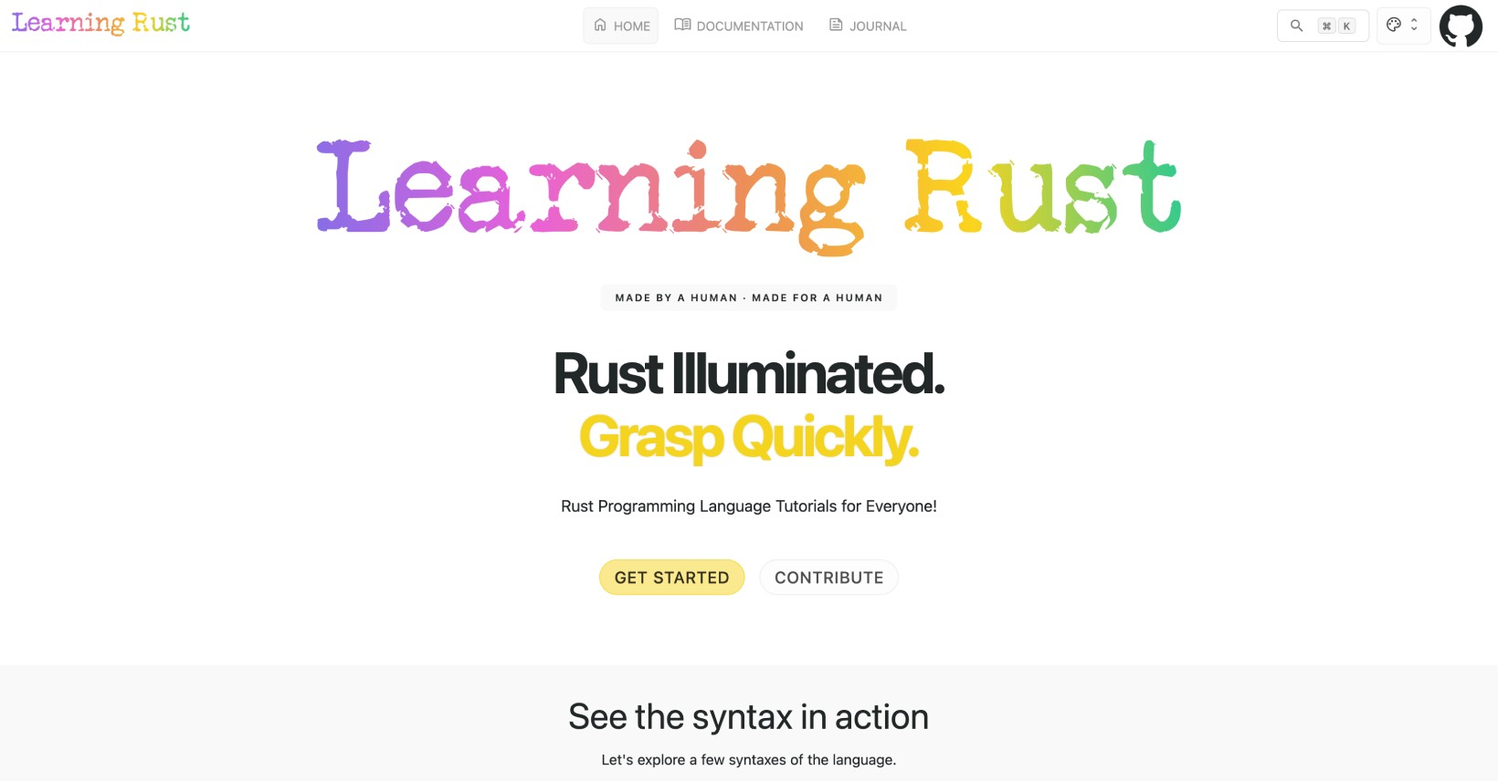
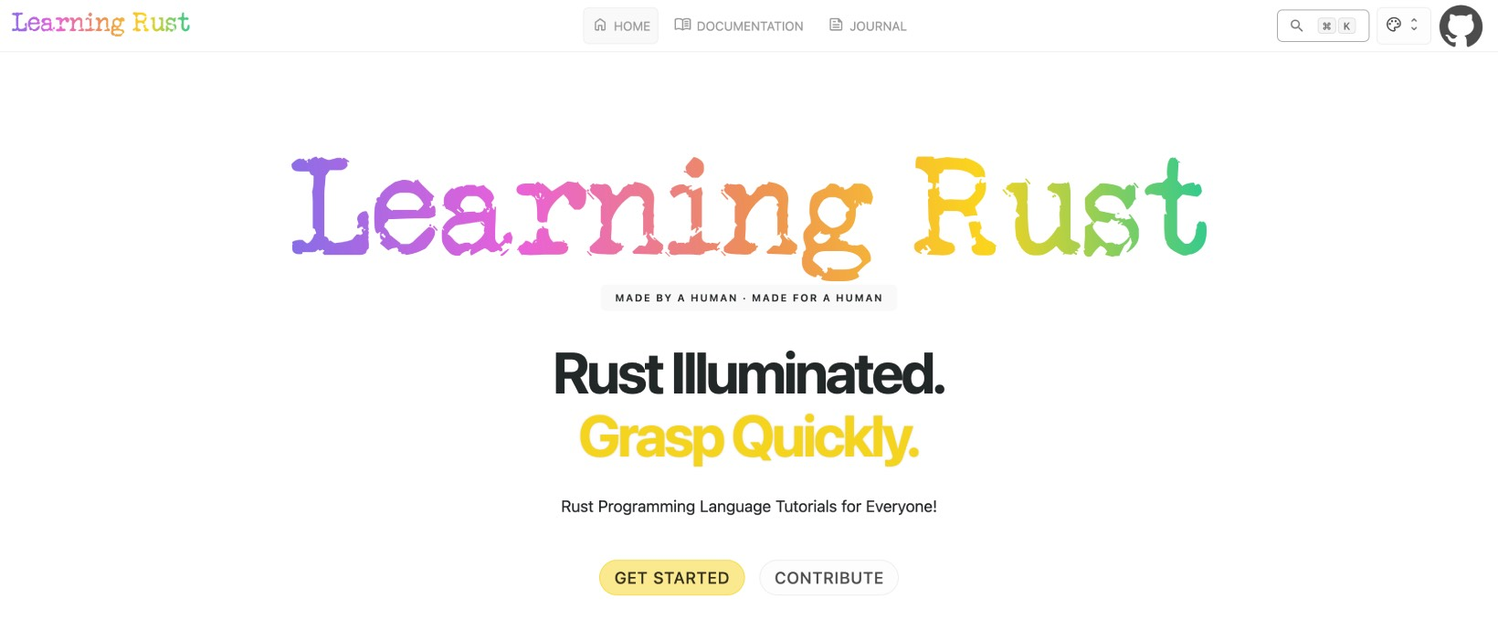
Adding The Journal

diff --git a/docs/index.html b/docs/index.html
@@ -7,7 +7,7 @@
 </a><a href=https://learning-rust.github.io/docs/><span><svg height="20" viewBox="0 -960 960 960" width="20"><path d="M256-288q49.42.0 96.21 11Q399-266 444-246v-454q-43-23-89.53-33.5-46.52-10.5-94.06-10.5-36.41.0-72.41 6t-68 21.98V-264q32-14 66.5-19t69.5-5zm260 42q45-20 91.79-31T704-288q35 0 69.5 5t66.5 19v-452q-35-13-72.49-20.5T692-744q-46 0-90 11.5T516-7e2v454zm-59.5 89q-10.5-6-21.72-12-39.78-23-83.76-35-43.99-12-90.02-12-32 0-64.5 4T134-195q-31 14-58.5 3.5T48-229v-503q0-14 8-25.5T76-776q42-24 88.38-32t94.62-8q58 0 110.5 12T480-762q58-30 110.5-42T701-816q44.47.0 87.24 7.5Q831-801 870-783q17 8 30 20.5t13 30.5v503q0 24-23.5 35t-50.5 1q-35-13-71.5-18t-73.5-5q-44.66.0-87.33 11.5T526-169q-11 7-22 12.5t-24 5.5-23.5-6zM282-491zm282-132q0-14 8.5-25t22.5-14q25-5 49.25-8 24.26-3 51.02-3 16.73.0 34.55 1.67 17.82 1.66 35.18 4.33 12 2 19.5 11.54T792-634q0 17-12 28t-29 8.71q-14-1.71-27.8-3.21t-28.05-1.5q-23.15.0-44.65 2.5t-43.38 8.37Q590-586 577-596t-13-27zm2 235q0-14 8.5-25t22.5-14q25-5 49.25-8 24.26-3 51.02-3 16.73.0 34.55 1.67 17.82 1.66 35.18 4.33 12 2 19.5 11.54T794-399q0 17-12 28t-29 8.71q-14-1.71-27.8-3.21t-28.05-1.5q-23.15.0-44.65 2.5t-43.38 8.37Q592-351 579-361t-13-27zm0-117q0-14 8.5-25t22.5-14q25-5 49.25-8 24.26-3 51.02-3 16.73.0 34.55 1.67 17.82 1.66 35.18 4.33 12 2 19.5 11.54T794-516q0 17-12 28t-29 8.71q-14-1.71-27.8-3.21t-28.05-1.5q-23.15.0-44.65 2.5t-43.38 8.37Q592-468 579-478t-13-27z"/></svg>
 </span>Documentation
 </a><a href=https://learning-rust.github.io/journal/><span><svg height="20" viewBox="0 -960 960 960" width="20"><path d="M216-144q-29.7.0-50.85-21.15T144-216v-528q0-29.7 21.15-50.85T216-816h378q14.22.0 27.11 5t23.64 15.75l150.5 150.5Q806-634 811-621.11t5 27.11v378q0 29.7-21.15 50.85T744-144H216zm0-72h528v-360H612q-15.3.0-25.65-10.35T576-612v-132H216v528zm420-72q15.3.0 25.65-10.29Q672-308.58 672-323.79t-10.35-25.71Q651.3-360 636-360H324q-15.3.0-25.65 10.29Q288-339.42 288-324.21t10.35 25.71Q308.7-288 324-288h312zM443.73-588q15.27.0 25.77-10.29t10.5-25.5-10.33-25.71-25.6-10.5h-107.8q-15.27.0-25.77 10.29t-10.5 25.5 10.33 25.71 25.6 10.5h107.8zM636-420q15.3.0 25.65-10.29Q672-440.58 672-455.79t-10.35-25.71Q651.3-492 636-492H324q-15.3.0-25.65 10.29Q288-471.42 288-456.21t10.35 25.71Q308.7-420 324-420h312zM216-744v156-156 528-528z"/></svg>
-</span>Journal</a></nav></header><main><section class=hero-section><div class=hero-header><h1 class=hero-svg aria-label="Learning Rust"><svg version="1.2" width="1280" height="260" viewBox="0 0 1280 260"><defs><linearGradient id="P" gradientUnits="userSpaceOnUse"/><linearGradient id="g1" x2="1" href="#P" gradientTransform="matrix(1197.64,-163.2,38.718,284.128,41,226.082)"><stop stop-color="#866ee7"/><stop offset=".25" stop-color="#ea60da"/><stop offset=".5" stop-color="#ed8f57"/><stop offset=".75" stop-color="#fbd41d"/><stop offset="1" stop-color="#2cca91"/></linearGradient></defs><style>.a{fill:url(#g1)}</style><path class="a" d="m73.2 63 2.6 2.6 4.6-1.7q6.5 3.6 9.8 3.6l10.7-2.7h5.3v1.7l2.7-1.7h1l6.4 4.3v1.8l-1-.8h-1.9l1 4.5q-3.1 6.2-9.8 6.2H91.1L85.7 88l-1.8 21.5v58.1q4.8.0 6.3 6.4l.9-.9h1l5.3 3.5q24.1-3.2 24.1-6.3l4.6-5.4h3.5l.8 1 3.7-1.8-1.8-5.3 2.6-1-.8-2.7h-2.7l-2.6 1.8h-1.9v-.9q.2-4.4 1.9-4.4l-1.9-6.3q0-7.3 8.9-10.7v.8l.9-.8h1.9q1.3.0 3.5 7.1l-.9 3.6.9 3.6-.9 5.3.9 4.6-.9.8v1l.9.9v.8l-.9 4.4.9 2.7-.9.9.9 6.3v6.4q-3.5 2.9-3.5 6.1-3.5 2.7-8.2 2.7H83.9l-2.6-2.7q1.2.0 2.6-3.5h-1.8v-.9l-4.4 1.7-1.9-1.7-4.4 3.6-.9-1-.8 1H55.3q0 2.6-1.8 2.6h-1.9q-9.8.0-9.8-7.9v-4.6l1-1-1-.8v-.9q0-2.4 9-3.5h4.5l5.4 4.4h1.7q6-3.8 8.1-11.7l2.7-.8v-.9l-1.8-5.4q-2.7.0-2.7-1.8v-34.8l-.8-12.7q1.8-4.4 1.8-16v-4.5q-3.8.0-5.5-5.4H52.6q-11.6.0-11.6-8v-1.8q6.6-7.2 11.6-7.2l.9.9h.9l2.8-.9q0 2.7 3.5 2.7l.8 2.6h.9v-.8l-.9-2.6 2.7-1.9 1.8 1.9q0-2.1 7.2-4.5zm64.4 94.8h-1.8v2.8l1.8-1.8zm66.8-63.2 1.7-2q.2 2.7 21.6 22.5v.8q-2 0-2 4.7l-2.7 1 1 4.7q0 1.9-2.9 1.9v.8l1.9 2q0-2.2 3.8-3.8 2.7.6 2.7 7.6v1.8l-.8.9.8.9v.9q0 2.8-9.3 4.7h-17.7l-34.7 1q0 2.5-4.6 5.6l-.9 3.8v.9q5.2 4.3 7.4 10.3l14.2 11.2-1.1.8h10.3q4.3.0 10.2-6.4l16.9-15.9q8.5.0 8.5 7.4t-12.3 20.7q-13.2 7.4-26.2 8.4l-.8-1v-.9l-.9.9h-3l-1.6-1.9.8-.8q-4.6.0-4.6-2l.8-.9-1.8-2.9q-7.3.0-11.3 3.8l-11.2-9.3 3.7-4.7q-3.7.0-3.7-6.5h.9l-.9-1.1v-.8l.9-1v-.9h-.9l-2.8 1.9q-4.6.0-4.6-18.7.0-22.4 3.6-22.4l-.8-2.9q0-3.8 4.6-3.8.0-7.4 19.7-19.6l10.3-2.8q10.6.0 14 3.8l2.7-3.8zm-39.3 31.7q.3 3.3 7.6 7.6l.8-1h30.9l1 1q5.5-3.6 8.3-8.5-7.5-14.9-20.5-14.9h-8.4q-12.1.0-19.7 15.8zm57.1 25.4h.9l.9.8v1l-.9.9h-.9l-.9-.9v-1zm4.6 2h.9l4.7 5.6-1 .9h-.8l-4.8-5.5zm-65.4 10.1-2.9 1v1l3.8 3.7h1l.8-2.7q-2.7.0-2.7-3zm104.1-61.1 4.4-2.6h10.6l3.3 2.6 8.9-2.6q.1 1.7 8.7 7.8 4.4 5.9 4.4 8.7v1.8l-3.5 5.2 1.7 2.6-1 3.5q1.9.0 1.9 2.6h1.7v-3.5h1.9l-1 30.6v10.4q0 4.9 5.2 8l6.2-6.1-1-3.5q4.5-6.2 9.7-6.2l2.7 7-1.9 8.8-3.4-1.8-.8.9h-1l-2.6-.9q-2.5 4.4-5.3 4.4v1.7l1.8 1.8-.8 3.5-1-.8-.8.8h-.8l-1.9-1.8-6 2.6h-4.4q-5.4-5.2-7.9-5.2l-17.5 9.6-1.6-3.4 1.6-5.3q-3.5.8-3.5 3.5l-.8-.8q-6.5 1-10.4 6h-5.4q-8.8.0-16.6-14.8-1.7-3.5-1.7-9.6v-8.8l1.7-1.7v1.7h1.8l-2.6-3.5q8.2-12.9 17.4-15.7-2.5-5.1-13-8.7l-1.8-4.4-.9.8h-.9l-.8-.8v-.9h1.7V120q0-8 10.5-15.6h.9l2.6 1.7q0-2.2 8.7-4.3h1.8zM262 128v.8l5.2 5.2-1.7 1.8h.8l14.1-.8 2.6 1.6q9.5.0 9.5-6h1l.8.8h.8l1-.8v-1.8q-1.8.0-1.8-4.3-6.9-9.7-12.3-9.7h-11.3q-8.7 5.8-8.7 13.2zm38.3 2.6h-1.6l.9.8v1.8h-2.7v2.6h1.8l1.6-3.4zm-36.6 6-5.3-5.3-.8.9v1q3.9 3.4 6.1 3.4zm-18.4 28.8h1q1.6.0 8.7 8.7l5.2 3.6h.9l7-1.8h5.2l2.6 1.8h1.9q12.8-7 15.7-15.9l-1-.7v-.9l1-5.2v-.9q-2.9.0-5.3-4.4v-.8h.9l4.4 3.4v-.8q-1-3-3.6-3.6l-34.1 5.2q-10.5 8.4-10.5 12.3zm80.4 18.3v.9q-7 8.7-10.4 8.7l-1-.8v-.8q9.6-8 11.4-8zm76.5-88.1h.9l10.8 1.7 1.8-1.7q0 2.7 11.7 12.6v.8h-1.8l.9.9v6.4q0 11.8-8.1 16.2h-7.2l-7.2-7.2-.9.9v-.9l.9-1v-.8q0-4.1-6.5-9.9v-.9h-.8q-20.8 16.1-20.8 31.6l-.9 5.3-1-.8h-.8l-3.6.8q-7.2.0-7.2-6.3v-5.4q0-22.5-6.3-22.5.0-1.8-2.8-1.8l-2.6.8q-15.4.0-15.4-8 0-7 11.7-8.1h10.9l.9.9h.8l2.8-2.8h1.7l3.7 2.8.9-.9v-1l12.5 10.9h1zm-35.3 15.3h-1.8l.9 5.3h.9l.9-4.5zm-5.4 3.7h-1.7v.8q1.8 3.7 4.4 3.7h.9v-1q-3.6.0-3.6-3.5zm10 .8-1.8 1.9v1.8l1.8-1.8zm-2.8 40.6v-1.8h1.9q0 3.1 6.3 3.6.0 11.4 6.2 16.4v.8l4.6-.8h7.2l.9.8h.9v-.8l-.9-1v-.8h.9l1.9 1.8-1 .8v.8q4.6.4 4.6 2.8l-1 .9v.9h2v.9q0 10-12.8 10h-20.7l-16.2.9-9.9-.9-1 .9q-4.6-5-4.6-7.3l-.9.9h-.8v-.9l3.6-6.3v.9q3.9-.9 7.2-6.3 4 0 8.2 3.5h.8q1.6-5.3 5.4-5.3v-3.6q0-10.9 6.4-10.9h1.8zm-7.2 17.3-2.7 2.5 2.7-.9zm128-77.1q26 2.9 26 22.4l-.8 16.1v1.8l.8 3.7-.8 3.5v7.2l.8 3.5-.8 3.7v8h-1.9l-.9-2.7-2.7.9v.9q3.4 5.9 7.1 7.3h1v-1q-2.6.0-2.6-1.9v-.8h.8l11.7 9.9v5.3l-2.7 3.6 1.8 1.9-1 .8h-1.8l-.8-.8h-.9l-1.8 1.7h-4.5l-27-.9-1.6-2.7 8.8-7.9h3.7l4.4.7q3.6-4.7 3.6-7.9l-2.6-4.6 1.6-3.6-.8-2.6-1.8 1.7h1.8q0 1.8-5.3 2.7l.8-.9v-22.4l-.8-5.4 2.7-8.1-2.7-2.6v-.9q0-1.8 2.7-1.8-3.9-9.1-9.1-9.1H485q-18.2 11.9-25.2 31.4v11.8l-.8 13.4 7.2 5.3 1.8-1.7v1.7h.9l2.6-.8 1.8 4.4.8-.7h1l.9.7v.9q-2.2.0-2.7 4.6-2.4.0-8 5.3l-1-.9-.9.9h-3.6q-28.6.0-28.6-5.3v-4.6l13.4-12.5q0-15.2 4.5-15.2l-3.5-4.6v-20.6l1.7-2.6q-1.7-6.2-13.4-14.4l-2.7-4.4v-.9l1.7-2.7-1.7-1.9 4.6-3.6 2.6 1.8.8-.8h.9l7.2.8 2.8-.8q8.9.0 10.7 12.5l4.5 2.7h.9q3-1.2 8.9-10.7 5.7-2.4 6.3-4.5l4.5.8h1q1.3.0 2.6-3.5zm-61 9.9h.8l.9.9v.8l-.9 1h-.8l-.9-1v-.8zm0 3.5h.9l8 9-1 .8h-.7l-8.1-8.9zm-.9 78.1v-1h.9l5.4 5.4-.9 1h-1zm139.7-124h.9q12.4 3.7 12.4 12.5v4.5q0 4.7-7.2 9.8h-8.7l-7.2-6.3q-3.5.0-3.5-1.7l.8-.9h.9l1.8 1.7v-.8l-.9-5.5q0-1.8 10.7-13.3zm-13.3 35.6 4.3 2.7 6.4-1.7v1.7q-3.6.5-3.6 2.8v1.6h.9l2.7-.8.8 2.7 11.6-5.3 1.9 8-1 4.5v39.2l-1.8 1.7-3.6-1.7v.9l1.8 2.7q-3.6 2-3.6 5.2l-.8-.8h-.9l1.7-6.3h-.8l-5.3 3.6-.9-.9v-4.4l.9-2.8-.9-4.3v-29.5q0-1.8-2.7-1.8l-1-.8v-.9l1-1q-3.6.0-3.6-3.5-6.5.0-16 7.2l-1-1q-4.5-4.7-4.5-8l2.9-1.9-1-.8v-.8q6.8-5.5 16.1-5.5zm10.7 69.6 12.4-8.9.9.9v8q0 5 6.3 7.1v1l.8-1h2.7l.9 1 2.7-1 7.2 1 2.6-2.6.9.8v.8l-4.5 5.4v2.6l2.6-1.7 1.9 1.7q-2.1.0-4.5 2.7l-3.5-1.7-12.5 2.7q0 3.5-5.4 3.5v.9l-10.7-.9h-18.7l-3.6.9q-8-.5-8-3.5l.8-2.7h-.8l-1.8-1.9q0-10.6 9.8-10.6l2.6 3.6 1-1h8l.9 1h.9q0-1.8 4.5-1.8l1.7-8.2h1.9zm-34.9 19.7v-.8h.9l5.3 5.3v.9h-.8zm135.1-92.4q26.1 2.9 26.1 22.4l-.9 16.2v1.7l.9 3.7-.9 3.5v7.2l.9 3.6-.9 3.6v8h-1.7l-1-2.7-2.7 1v.9q3.3 5.8 7.2 7.1h.8v-.8q-2.6.0-2.6-1.9v-.8h.9l11.6 9.9v5.3l-2.7 3.6 1.8 1.8-.8.8H699l-.7-.8h-1l-1.7 1.8H691l-26.9-1-1.8-2.6 9-8.1h3.6l4.4.8q3.5-4.7 3.5-8l-2.6-4.5 1.7-3.5-.9-2.6-1.7 1.6h1.7q0 1.9-5.3 2.7l1-.8v-22.4l-1-5.4 2.8-8.2-2.8-2.6v-.9q0-1.8 2.8-1.8-3.9-9.1-9.1-9.1h-8.9q-18.1 12-25.2 31.4v11.8l-.8 13.5 7.1 5.3 1.9-1.7v1.7h.9l2.6-.8 1.7 4.3 1-.8h.9l.8.8v1q-2.2.0-2.7 4.6-2.3.0-7.9 5.3l-.9-1-1 1h-3.6q-28.7.0-28.7-5.3v-4.6l13.6-12.5q0-15.3 4.3-15.3L621 149v-20.6l1.8-2.6q-1.8-6.1-13.4-14.4l-2.8-4.4v-.9l1.9-2.7-1.9-1.9 4.6-3.5 2.6 1.7.8-.8h1l7.2.8 2.7-.8q9 0 10.7 12.5l4.6 2.6h.8q3.1-1.1 9-10.6 5.7-2.4 6.3-4.5l4.6.8h.8q1.3.0 2.6-3.5zm-61 9.9h.9l1 .9v.9l-1 .9h-.9l-.8-.9v-.9zm0 3.6h.8l8.1 8.9-.9 1h-.8l-8.2-9.1zm-.8 78.1v-.9h.8l5.5 5.4-1 .9h-.8zm136.1-83.1 6.3-6.4h2.7q7.5.0 10.7 5.4l1-.8h1.7q2.6.0 2.6 3.5 7.1-.9 12.5-8.1h7.3q14.8.0 17.9 17.9-1.8 9.9-3.7 9.9l-1.8-1.7-.8.8h-.9l-.9-.8h-.9l-2.7.8v-2.7l-1 .9h-.8l-.8-.9h-1v.9l1 2.7-1 1h-.8l-2.7-2.7h-.9l.9.8v1.9l-3.7 4.3v3.7q0 25.6-21.4 30.3l.9 1v.8l-2.7 3.5h1.8l1.9 2.7 2.6-.9.9.9v1l.8-1h1q4.4.7 4.4 4.6l6.3 1.7.8-.8 3.7.8 7.2-1.7q11.5 9 11.5 17.8v3.7q-9.5 6.5-16.9 15.1h-1l2.8 5.3q-6.3 6.4-23.3 6.4h-6.3q-16.6.0-20.5-2.9l1.8-3.5q-4.5.0-4.5-1.8h-2.7q0 2.8-2.7 2.8-16.9-4.9-16.9-19.7v-5.4q1.8-1.8 1.8-8 3.5-2 3.5-4.6l-3.5-12.5v-6.1q0-4.6 9.8-14.4v-3.5l-1.8-9.8v-3.7q0-17.3 7.1-22.3 5.3-3.8 13.4-6.2zm-9.8 29.5q0 12.1 17.8 22.2 13.7.0 19.7-11.5l-.9-4.5q0-6.2 4.6-6.2v-3.7q-2.5.0-10.7-11.7l-7.2-2.6h-5.5q-12.1.0-17.8 18zm50-13.5h-1.7v3.7h.8zM733 160.9l-8.9 8.1v1.7q2 4.1 6.2 6.2h2.7q7 0 13.4-8.8l-1-2.7 1-1-7.2 1-6.2-1.9v-.8l1-1v-.8zm-9.9 36.7v1.7l13.4 11.6-.9.9v.9q2.6.0 2.6 2.7h2.7l1.9-3.6-1-2.5 1-1h.9l.8 1 .9-1h.9l3.5 2.6h13.5q17.9.0 24.2-10.7-4.6-13.4-30.5-13.4h-16.1q-15.5.0-17.8 10.8zM861.1 63h19.1l1.8 1.7-.9 1h2.8l15.3-1.8 21.6 1.8.9-1h1q26 6.9 26 23.6v1.8H947l-2.6-.8-4.6.8h-4.5q-9.1-10-28.9-10h-11.8q-1.2 5.5-6.3 5.5v12.6l-4.4-.8.8.8-.8 4.5v2.7l3.5-2.7.9 1h.9l-.9.9v2.7l.9 3.6-.9 3.6 7.2 5.3 7.2-.8 17.3.8q7.7.0 16.2-12.5l-.9-3.6.9-1-.9-.9v-.8l3.5-3.6 1 .8h.9q1.2-6.3 2.7-6.3l1 .9-1 1v3.6h1.8v.8l3.5-1.7 1 .9v6.3q0 12.9-14.4 25.3l3.5 10.9-.8.8-.9-.8h-.9l-14.5 1.8q-2.7-7.4-10.8-7.4h-16.3q-1.2 5.6-6.3 5.6l.9 3.5-.9 7.2.9 7.2-.9 9.1q0 5.1 16.2 9.1 4.6 2.9 4.6 7.2v2.7q-3.2 6.4-16.3 6.4l-19.9-1v-.9q2.6-4.5 5.4-4.5l-5.4-7.2-2.7.8 3.6 4.6v1l-3.6.8-2.7-2.7-4.5 4.5 2.7.9v1.8h-1q-8.9-2.7-8.9-9v-1.9q0-5.2 14.4-9.9.0-1.8 3.6-1.8l.9.9v-10.9h1.8v1.9h1.8l-3.6-13.6-.9-27.1 1.8-1.8-1.8-2.7v-7.2q0-1.9 5.5-1.9l.9-4.4v-1.8q0-1.5-6.4-2.7v-9.1q-7.8-9.1-15.3-9.1l-1-.9v-1.8q0-12.6 3.6-12.6zm76 84.9.9 1h.8l2.9-1 2.7 9.1-2.7 2.7.8.9v.9l-.8.8v.9q10 11 15.2 11l7.3 6.3h-1.8v5.4q-1.8 6.4-9.1 6.4h-9.9q-12.6.0-12.6-10.9v-.9q5.7-2.4 6.3-4.5l-1.8-5.6.9-.8v-.9h-1.7l-2.9 1.7-4.5-18v-1.8q0-2.7 10-2.7zm64.6-56h.9l5.6 6.3-1 1.1h-.9l-5.4-6.5zm-4.7 5.4 4.7-.8q2.7 3.6 2.7 8.3v14.7l-1 2.9 1 4.6v5.4q0 41.5 7.3 41.5l3.7 2.7h4.6q10.1.0 24-22.2v1.1l2.7-1.1-.9-15.4v-2l.9-5.6-.9-3.6.9-.8h1q0-11.8-6.5-15.7l-4.6-1q0-1.4-6.4-3.6V103l6.4-5.7 4.6 1h8.2l4.6-1 1 1 1.9-1.8q2.7.0 3.5 12.9v60.7q0 2.4 10.3 5.6l2.7 3.7v1q-1.9 3.7-4.6 3.7l1.9 2.7-1 .9-.9-.9h-2.7v1.7q2.7.0 2.7 2v1h-1.8l-2.8-2-2.7 2-8.3-1-2.8 1v-1l.9-1v-1q-3 0-8.3-7.3l-.9-.8h-.9q-12.2 11.9-22.1 11.9h-6.5q-12.2.0-20.2-15.7l-.9-.9.9-.9v-.9q-3.8.0-4.5-19.5V149q0-7.3 5.4-7.3v-1.9l-4.6-5.4 1.9-9.3q0-7.7-5.6-12.9l1-.9v-1q-5.6.0-7.3-3.6-2.9.0-2.9-1.9l1.8-2.7-.9-1q2.8.0 6.6-3.8zm-25 8.4h.9l5.7 6.5-1.1 1h-.8l-5.6-6.5zm8.3 7.3h.9l1 .9v1l-1 .8h-.9l-.8-.8v-1zm59.8 2.7-1.9-2.7h1.9l1.7 1.8-.8.9zm-2.8-1.7h.9l1 .8v.9l-1 1.1h-.9l-.8-1.1v-.9zm106.2-16.8h1l5.2 6.3-.8.8h-.9l-5.3-6.1zm-41.4.8h2.6q23 2.4 23.7 7.9h3.6q0-3.6 5.3-6.1h.8l2.6 1.8.9-.9v-.9q3.6.9 3.6 5.3v9.8l.9 4.3q-2.5.0-4.5 6.2l-6.1 7.1-.9-1-.9 1q-6.6-18.6-22.9-18.6h-7q-4.8.0-11.5 8.9l.9 2.6-1.8 1.7q3.8 1.9 7.1 7.1l21.2 4.3-1 .9v2.7l1.8 1.8h1.8l4.4-.9v1.7l4.3-.8 1 .8v1l8-1.8-3.6-4.5.9-.9h.8q11.6 13.7 11.6 20.4v8.7q0 11.2-15.1 21.2l-.9-.8v-.9q3.2-1.7 7-11.5l-1.7-6.2h-.9q0 4.6-7.1 9.8l-6.9 14h-5.4l-3.5 1-9.7-2.6 2.8-4.5q-4.6-6.4-9-7.1-7 5.7-11.3 13.2l-3.6 1q-5.8.0-7.1-8.1l1-.8h.9v-1.8h-.9l.9-14.9v-13.3q0-1.6 7.8-4.4.0-2.6 1.8-2.6h.9v.9l-.9.8v.9l.9-.9h1.7v.9l-1.7 2.8v2.6q4 8.4 17.6 20.3l4.5-1h3.4l4.5 2.6.8-.9h1l.8.9h.8q6.1.0 15-11.4l-1.7-1.8.9-.8v-1q-3.1-10.5-10.6-10.5v-1.8h1.7v-1.7h-1.7l-3.6 2.6-.8-.9v-.9l2.6-2.6-2.6-.9-.8.9h-2.8l-5.1-2.7q0 2.1-4.5 5.3l-14.2-2.6-2.6 2.6h-.9q-11.5-14.2-11.5-17.5l-.7-7.9v-7.1q3.5-5.3 18.4-17.7.0-1.6 4.5-1.8zm19.4 40.5v-1.7h2.6v1.7zm72.2-74h1.7v1l.8-1h1.8q0 2.7 2.6 2.7v2.6l1-.8h.8l1.7 1.6v1l-.9-1h-1.6v1l-1 22.9 6.1 7.1q4.8-3.8 15.1-4.5l1.8 3.6 2.6-1.7h1.8q2.6.0 4.3 8.7.0 4.5-6.1 7.9l-17.6-2.7h-1.9l-6.9 7.2v43.1q0 5.7 10.5 14.1h4.5q9.8-5.6 9.8-19.4l.8-.8h.8l-.8-.9v-1l.8-.8-.8-.8v-1l3.4-4.5h2.7l.8 1 1-1h.8q4.4 2.1 4.4 9v3.4q0 25.2-21.1 30.9v-.9l-5.2 1.9h-4.5q-22-8.5-22-18.7-2.2.0-2.7-17.5v-16.8l.9-.9v-.9l.9.9h1.8l-1.8-5.2v-14.2q-3.7.0-5.3-5.3h-5.2l-7.2-1.6h-3.4l-2.7 1.6q-3.4-1.4-3.4-6.1v-1q4.9-9.6 22.8-9.6l7-6.2-.8-4.4q0-22 7.1-22z"/></svg></h1><span class=badge>Made by a human · Made for a human</span><h2>Rust Illuminated.<br><span>Grasp Quickly.</span></h2></div><div class=hero-content><p>Rust Programming Language Tutorials for Everyone!</p></div><div class=hero-controls><a href=https://learning-rust.github.io/docs class="btn btn-primary">Get Started</a>
+</span>Journal</a></nav></header><main><section class=hero-section><div class=hero-header><h1 class=hero-svg aria-label="Learning Rust"><svg version="1.2" viewBox="0 0 1280 260" width="1280" height="260"><defs><linearGradient id="g1" x2="1" gradientUnits="userSpaceOnUse" gradientTransform="matrix(1268.481,-172.853,41.006,300.923,6,259.769)"><stop offset="0" stop-color="#866ee7"/><stop offset=".25" stop-color="#ea60da"/><stop offset=".5" stop-color="#ed8f57"/><stop offset=".75" stop-color="#fbd41d"/><stop offset="1" stop-color="#2cca91"/></linearGradient></defs><style>.s0{fill:url(#g1)}</style><path class="s0" d="m40.1 87.04 2.76 2.75 4.87-1.8q6.89 3.82 10.38 3.82l11.33-2.86h5.62v1.8l2.86-1.8h1.06l6.77 4.55v1.91l-1.06-.85h-2.01l1.06 4.77q-3.28 6.56-10.38 6.56h-14.3l-5.72 7.63-1.9 22.77v61.54q5.08.0 6.67 6.78l.95-.96h1.06l5.62 3.71q25.52-3.39 25.52-6.67l4.87-5.72h3.71l.85 1.06 3.92-1.91-1.91-5.61 2.75-1.06-.84-2.86h-2.86l-2.76 1.9h-2.01v-.95q.21-4.66 2.01-4.66l-2.01-6.67q0-7.73 9.43-11.33v.84l.95-.84h2.01q1.38.0 3.71 7.52l-.95 3.81.95 3.81-.95 5.62.95 4.87-.95.84v1.06l.95.96v.84l-.95 4.66.95 2.86-.95.96.95 6.67v6.78q-3.71 3.07-3.71 6.46-3.7 2.86-8.68 2.86H51.44l-2.76-2.86q1.27.0 2.76-3.71h-1.91v-.95l-4.66 1.8-2.01-1.8-4.66 3.81-.96-1.06-.84 1.06H21.15q0 2.76-1.91 2.76h-2.01q-10.38.0-10.38-8.37v-4.87l1.06-1.06-1.06-.85v-.95q0-2.54 9.53-3.71h4.77l5.72 4.66h1.8q6.35-4.02 8.57-12.39l2.86-.85v-.95l-1.9-5.72q-2.86.0-2.86-1.91v-36.86l-.85-13.45q1.91-4.66 1.91-16.94v-4.77q-4.03.0-5.83-5.72H18.29q-12.29.0-12.29-8.47v-1.91q6.99-7.63 12.29-7.63l.95.96h.95l2.97-.96q0 2.86 3.71 2.86l.84 2.76h.96v-.85l-.96-2.75 2.86-2.02 1.91 2.02q0-2.23 7.62-4.77zm68.21 100.41h-1.9v2.96l1.9-1.9zm70.76-66.94 1.8-2.12q.21 2.86 22.87 23.83v.85q-2.11.0-2.11 4.98l-2.86 1.06 1.05 4.97q0 2.02-3.07 2.02v.84l2.02 2.12q0-2.33 4.02-4.02 2.86.63 2.86 8.05v1.9l-.85.96.85.95v.95q0 2.97-9.85 4.98h-18.75l-36.75 1.06q0 2.65-4.87 5.93l-.96 4.03v.95q5.51 4.55 7.84 10.91l15.04 11.86-1.16.85h10.91q4.55.0 10.8-6.78l17.9-16.84q9 0 9 7.84.0 7.83-13.03 21.92-13.98 7.84-27.74 8.9l-.85-1.06v-.95l-.96.95h-3.17l-1.7-2.01.85-.85q-4.87.0-4.87-2.12l.85-.95-1.91-3.07q-7.73.0-11.97 4.02l-11.86-9.85 3.92-4.98q-3.92.0-3.92-6.88h.95l-.95-1.17v-.84l.95-1.06v-.96h-.95l-2.97 2.02q-4.87.0-4.87-19.81.0-23.72 3.81-23.72l-.84-3.08q0-4.02 4.87-4.02.0-7.84 20.86-20.76l10.91-2.97q11.23.0 14.83 4.03l2.86-4.03zm-41.62 33.58q.31 3.49 8.05 8.05l.84-1.06h32.73l1.06 1.06q5.82-3.81 8.79-9-7.94-15.79-21.71-15.79h-8.9q-12.81.0-20.86 16.74zm60.47 26.9h.96l.95.85v1.06l-.95.95h-.96l-.95-.95v-1.06zm4.87 2.12h.96l4.97 5.93-1.06.95h-.84l-5.09-5.82zm-69.27 10.69-3.07 1.06v1.06l4.03 3.92h1.06l.84-2.86q-2.86.0-2.86-3.18zm110.26-64.71 4.66-2.75h11.23l3.49 2.75 9.43-2.75q.11 1.8 9.22 8.26 4.66 6.25 4.66 9.21v1.91l-3.71 5.51 1.8 2.75-1.06 3.71q2.01.0 2.01 2.75h1.8v-3.71h2.02l-1.06 32.41v11.02q0 5.19 5.5 8.47l6.57-6.46-1.06-3.71q4.77-6.56 10.28-6.56l2.85 7.41-2.01 9.32-3.6-1.9-.85.95h-1.06l-2.75-.95q-2.65 4.66-5.61 4.66v1.8l1.9 1.9-.84 3.71-1.06-.85-.85.85h-.85l-2.01-1.91-6.35 2.76h-4.66q-5.72-5.51-8.37-5.51l-18.54 10.17-1.69-3.6 1.69-5.62q-3.7.85-3.7 3.71l-.85-.85q-6.89 1.06-11.02 6.36h-5.72q-9.32.0-17.58-15.68-1.8-3.71-1.8-10.17v-9.32l1.8-1.8v1.8h1.91l-2.76-3.7q8.69-13.67 18.43-16.63-2.64-5.4-13.76-9.22l-1.91-4.66-.95.85h-.96l-.85-.85v-.95h1.81v-6.57q0-8.47 11.12-16.52h.95l2.75 1.8q0-2.33 9.22-4.55h1.9zm-3.7 26.79v.85l5.51 5.51-1.81 1.9h.85l14.94-.84 2.75 1.69q10.06.0 10.06-6.35h1.06l.85.84h.85l1.05-.84v-1.91q-1.9.0-1.9-4.55-7.31-10.28-13.03-10.28h-11.97q-9.21 6.15-9.21 13.98zm40.56 2.76h-1.69l.95.84v1.91h-2.86v2.75h1.91l1.69-3.6zM241.88 165l-5.62-5.62-.84.96v1.06q4.13 3.6 6.46 3.6zm-19.49 30.5h1.06q1.69.0 9.21 9.22l5.51 3.81h.95l7.42-1.91h5.51l2.75 1.91h2.01q13.56-7.41 16.63-16.84l-1.06-.74v-.96l1.06-5.5v-.96q-3.07.0-5.61-4.66v-.84h.95l4.66 3.6v-.85q-1.06-3.18-3.81-3.81l-36.12 5.5q-11.12 8.9-11.12 13.03zm85.16 19.38v.96q-7.42 9.21-11.02 9.21l-1.06-.85v-.84q10.17-8.48 12.08-8.48zm81.02-93.31h.95l11.44 1.8 1.91-1.8q0 2.86 12.39 13.35v.85h-1.91l.96.95v6.78q0 12.5-8.58 17.16h-7.63l-7.62-7.63-.96.95v-.95l.96-1.06v-.85q0-4.34-6.89-10.48v-.96h-.84q-22.04 17.06-22.04 33.47l-.95 5.62-1.06-.85h-.85l-3.81.85q-7.62.0-7.62-6.68v-5.72q0-23.83-6.68-23.83.0-1.9-2.96-1.9l-2.76.84q-16.31.0-16.31-8.47.0-7.41 12.4-8.58h11.54l.95.96h.85l2.97-2.97h1.8l3.92 2.97.95-.96v-1.06l13.24 11.55h1.06zm-37.39 16.2h-1.91l.96 5.62h.95l.95-4.77zm-5.72 3.92h-1.8v.85q1.91 3.92 4.66 3.92h.96v-1.06q-3.82.0-3.82-3.71zm10.59.85-1.9 2.01v1.91l1.9-1.91zm-2.96 43v-1.91h2.01q0 3.29 6.67 3.82.0 12.07 6.57 17.37v.84l4.87-.84h7.63l.95.84h.96v-.84l-.96-1.06v-.85h.96l2.01 1.91-1.06.84v.85q4.87.43 4.87 2.97l-1.06.95v.95h2.12v.96q0 10.59-13.56 10.59h-21.92l-17.16.95-10.49-.95-1.05.95q-4.88-5.29-4.88-7.73l-.95.95h-.85v-.95l3.82-6.67v.95q4.13-.95 7.62-6.67 4.24.0 8.69 3.7h.84q1.7-5.61 5.72-5.61v-3.81q0-11.55 6.78-11.55h1.91zm-7.63 18.33-2.86 2.64 2.86-.95zm135.57-81.66q27.54 3.07 27.54 23.73l-.85 17.05v1.9l.85 3.92-.85 3.71v7.63l.85 3.7-.85 3.92v8.48h-2.01l-.95-2.86-2.86.95v.95q3.6 6.25 7.52 7.73h1.06v-1.05q-2.76.0-2.76-2.02v-.84h.85l12.39 10.48v5.61l-2.86 3.82 1.91 2.01-1.06.85h-1.91l-.84-.85h-.96l-1.9 1.8h-4.77l-28.6-.95-1.69-2.86 9.32-8.37h3.92l4.66.74q3.81-4.98 3.81-8.37l-2.75-4.87 1.69-3.81-.84-2.75-1.91 1.8h1.91q0 1.9-5.62 2.86l.85-.96v-23.72l-.85-5.72 2.86-8.58-2.86-2.75v-.96q0-1.9 2.86-1.9-4.13-9.64-9.64-9.64h-9.42q-19.28 12.6-26.69 33.25v12.5l-.85 14.2 7.63 5.61 1.9-1.8v1.8h.96l2.75-.85 1.91 4.66.84-.74h1.06l.96.74v.95q-2.34.0-2.86 4.88-2.55.0-8.48 5.61l-1.06-.95-.95.95h-3.81q-30.29.0-30.29-5.61v-4.88l14.19-13.23q0-16.1 4.76-16.1l-3.7-4.88v-21.81l1.8-2.76q-1.8-6.56-14.2-15.25l-2.85-4.66v-.95l1.8-2.86-1.8-2.02 4.87-3.81 2.75 1.91.85-.85h.95l7.63.85 2.96-.85q9.43.0 11.34 13.24l4.76 2.86h.96q3.17-1.27 9.42-11.33 6.04-2.54 6.67-4.77l4.77.85h1.06q1.38.0 2.75-3.71zm-64.6 10.49h.84l.96.95v.85l-.96 1.06h-.84l-.96-1.06v-.85zm0 3.71h.96l8.47 9.53-1.06.85h-.74l-8.58-9.43zm-.95 82.72v-1.06h.95l5.72 5.72-.95 1.06h-1.06zM563.44 87.79h.95q13.14 3.92 13.14 13.24v4.77q0 4.98-7.63 10.38h-9.21l-7.63-6.67q-3.71.0-3.71-1.8l.85-.96h.95l1.91 1.8v-.84l-.95-5.83q0-1.91 11.33-14.09zm-14.09 37.71 4.56 2.86 6.78-1.8v1.8q-3.82.53-3.82 2.97v1.69h.96l2.86-.85.84 2.86 12.29-5.61 2.01 8.47-1.06 4.77v41.52l-1.9 1.8-3.82-1.8v.95l1.91 2.86q-3.81 2.12-3.81 5.51l-.85-.85h-.95l1.8-6.67h-.85l-5.61 3.81-.96-.95v-4.66l.96-2.97-.96-4.55v-31.25q0-1.9-2.86-1.9l-1.06-.85v-.95l1.06-1.06q-3.81.0-3.81-3.71-6.88.0-16.95 7.63l-1.06-1.06q-4.76-4.98-4.76-8.48l3.07-2.01-1.06-.85v-.84q7.2-5.83 17.05-5.83zm11.34 73.72 13.13-9.43.95.95v8.48q0 5.29 6.67 7.52v1.06l.85-1.06h2.86l.96 1.06 2.85-1.06 7.63 1.06 2.75-2.76.96.85v.85l-4.77 5.72v2.75l2.76-1.8 2.01 1.8q-2.23.0-4.77 2.86l-3.71-1.8-13.23 2.86q0 3.71-5.72 3.71v.95l-11.34-.95h-19.8l-3.82.95q-8.47-.53-8.47-3.71l.85-2.86h-.85l-1.91-2.01q0-11.23 10.38-11.23l2.76 3.82 1.06-1.06h8.47l.95 1.06h.96q0-1.91 4.76-1.91l1.8-8.69h2.02zm-36.97 20.87v-.85h.95l5.62 5.62v.95h-.85zm143.09-97.87q27.65 3.08 27.65 23.73l-.96 17.16v1.8l.96 3.92-.96 3.7v7.63l.96 3.81-.96 3.82v8.47h-1.8l-1.06-2.86-2.86 1.06v.95q3.5 6.14 7.63 7.52h.85v-.85q-2.76.0-2.76-2.01v-.85h.96l12.28 10.49v5.61l-2.86 3.82 1.91 1.9-.85.85h-2.01l-.74-.85h-1.06l-1.8 1.91h-4.87l-28.5-1.06-1.9-2.75 9.53-8.58h3.81l4.66.84q3.71-4.97 3.71-8.47l-2.75-4.76 1.8-3.71-.96-2.76-1.8 1.7h1.8q0 2.01-5.61 2.86l1.06-.85v-23.72l-1.06-5.72 2.97-8.69-2.97-2.75v-.96q0-1.9 2.97-1.9-4.13-9.64-9.64-9.64h-9.43q-19.17 12.71-26.69 33.26v12.5l-.85 14.29 7.52 5.62 2.02-1.8v1.8h.95l2.75-.85 1.8 4.55 1.06-.84h.96l.84.84v1.06q-2.33.0-2.86 4.88-2.43.0-8.36 5.61l-.96-1.06-1.06 1.06h-3.81q-30.4.0-30.4-5.61v-4.88l14.41-13.24q0-16.2 4.55-16.2l-3.7-4.87v-21.82l1.9-2.76q-1.9-6.46-14.19-15.25l-2.97-4.66v-.95l2.02-2.86-2.02-2.01 4.88-3.71 2.75 1.8.85-.85h1.06l7.62.85 2.86-.85q9.53.0 11.33 13.24l4.88 2.76h.84q3.29-1.17 9.54-11.23 6.03-2.54 6.67-4.77l4.87.85h.85q1.37.0 2.75-3.71zm-64.61 10.49h.96l1.06.95v.96l-1.06.95h-.96l-.84-.95v-.96zm0 3.82h.84l8.58 9.42-.95 1.06h-.85l-8.68-9.64zm-.85 82.72v-.95h.85l5.82 5.72-1.06.95h-.84zm144.15-88.01 6.67-6.78h2.86q7.94.0 11.33 5.72l1.06-.85h1.8q2.76.0 2.76 3.71 7.52-.96 13.23-8.58h7.74q15.67.0 18.96 18.96-1.91 10.48-3.92 10.48l-1.91-1.8-.85.85h-.95l-.95-.85h-.96l-2.86.85v-2.86l-1.06.95h-.84l-.85-.95h-1.06v.95l1.06 2.86-1.06 1.06h-.85l-2.86-2.86h-.95l.95.85v2.01l-3.92 4.56v3.92q0 27.11-22.66 32.09l.95 1.06v.84l-2.86 3.71h1.91l2.01 2.86 2.75-.95.96.95v1.06l.85-1.06h1.05q4.66.74 4.66 4.87l6.68 1.8.84-.84 3.92.84 7.63-1.8q12.18 9.53 12.18 18.86v3.91q-10.06 6.89-17.9 16h-1.06l2.97 5.61q-6.68 6.78-24.68 6.78h-6.67q-17.59.0-21.72-3.07l1.91-3.71q-4.77.0-4.77-1.91h-2.86q0 2.97-2.86 2.97-17.9-5.19-17.9-20.87v-5.71q1.91-1.91 1.91-8.48 3.71-2.12 3.71-4.87l-3.71-13.24v-6.46q0-4.87 10.38-15.25v-3.71l-1.91-10.38v-3.92q0-18.32 7.52-23.62 5.62-4.02 14.2-6.56zm-10.38 31.24q0 12.82 18.85 23.51 14.51.0 20.86-12.18l-.95-4.76q0-6.57 4.87-6.57v-3.92q-2.64.0-11.33-12.39l-7.63-2.75h-5.82q-12.82.0-18.85 19.06zm52.95-14.3h-1.8v3.92h.85zm-49.14 42.58-9.43 8.58v1.8q2.12 4.34 6.57 6.57h2.86q7.41.0 14.19-9.32l-1.06-2.86 1.06-1.06-7.63 1.06-6.56-2.02v-.84l1.06-1.06v-.85zm-10.49 38.87v1.8l14.19 12.29-.95.95v.95q2.75.0 2.75 2.86h2.86l2.02-3.81-1.06-2.65 1.06-1.06h.95l.85 1.06.95-1.06h.95l3.71 2.76h14.3q18.96.0 25.63-11.34-4.87-14.19-32.3-14.19h-17.06q-16.41.0-18.85 11.44zm146.16-142.56h20.23l1.91 1.8-.95 1.06h2.96l16.21-1.91 22.87 1.91.96-1.06h1.06q27.53 7.31 27.53 25v1.9h-1.8l-2.75-.85-4.87.85h-4.77q-9.64-10.59-30.61-10.59h-12.5q-1.27 5.83-6.67 5.83v13.34l-4.66-.85.85.85-.85 4.77v2.86l3.71-2.86.95 1.06h.95l-.95.95v2.86l.95 3.81-.95 3.82 7.63 5.61 7.62-.85 18.33.85q8.15.0 17.15-13.24l-.95-3.81.95-1.06-.95-.96v-.84l3.71-3.82 1.06.85h.95q1.27-6.67 2.86-6.67l1.06.95-1.06 1.06v3.81h1.91v.85l3.7-1.8 1.06.95v6.68q0 13.66-15.25 26.79l3.71 11.55-.85.85-.95-.85h-.96l-15.35 1.9q-2.86-7.83-11.44-7.83h-17.27q-1.27 5.93-6.67 5.93l.95 3.7-.95 7.63.95 7.63-.95 9.63q0 5.41 17.16 9.64 4.87 3.07 4.87 7.63v2.86q-3.39 6.78-17.26 6.78l-21.08-1.06V222q2.75-4.76 5.72-4.76l-5.72-7.63-2.86.85 3.81 4.87v1.06l-3.81.85-2.86-2.86-4.76 4.77 2.85.95v1.9h-1.05q-9.43-2.85-9.43-9.53v-2.01q0-5.51 15.25-10.49.0-1.9 3.81-1.9l.96.95v-11.54h1.9v2.01h1.91l-3.81-14.41-.96-28.7 1.91-1.9-1.91-2.86v-7.63q0-2.01 5.83-2.01l.95-4.66v-1.91q0-1.59-6.78-2.86v-9.64q-8.26-9.64-16.2-9.64l-1.06-.95v-1.91q0-13.34 3.81-13.34zm80.5 89.92.95 1.06h.85l3.07-1.06 2.86 9.64-2.86 2.86.85.95v.96l-.85.84v.96q10.59 11.65 16.1 11.65l7.73 6.67h-1.91v5.72q-1.9 6.78-9.63 6.78h-10.49q-13.34.0-13.34-11.55v-.95q6.03-2.54 6.67-4.77l-1.91-5.93.95-.85v-.95h-1.8l-3.07 1.8-4.76-19.06v-1.91q0-2.86 10.59-2.86zm68.42-59.31h.95l5.93 6.67-1.06 1.17h-.95l-5.72-6.89zm-4.98 5.72 4.98-.85q2.86 3.82 2.86 8.79v15.57l-1.06 3.08 1.06 4.87v5.72q0 43.95 7.73 43.95l3.92 2.86h4.87q10.7.0 25.42-23.51v1.16l2.86-1.16-.95-16.31v-2.12l.95-5.93-.95-3.81.95-.85h1.06q0-12.5-6.88-16.63l-4.87-1.06q0-1.48-6.78-3.81v-3.92l6.78-6.04 4.87 1.06h8.68l4.88-1.06 1.05 1.06 2.02-1.91q2.86.0 3.7 13.67v64.29q0 2.54 10.91 5.93l2.86 3.92v1.06q-2.01 3.92-4.87 3.92l2.01 2.86-1.06.95-.95-.95h-2.86v1.8q2.86.0 2.86 2.11v1.06h-1.91l-2.96-2.12-2.86 2.12-8.79-1.06-2.97 1.06v-1.06l.96-1.06V220q-3.18.0-8.8-7.74l-.95-.84h-.95q-12.92 12.6-23.41 12.6h-6.88q-12.93.0-21.4-16.63l-.95-.95.95-.95v-.96q-4.02.0-4.76-20.65v-5.72q0-7.73 5.71-7.73v-2.01l-4.87-5.72 2.02-9.85q0-8.16-5.94-13.67l1.06-.95v-1.06q-5.93.0-7.73-3.81-3.07.0-3.07-2.02l1.91-2.85-.96-1.06q2.97.0 6.99-4.03zm-26.48 8.9h.96l6.04 6.88-1.17 1.06h-.85l-5.93-6.88zm8.79 7.73h.96l1.05.95v1.06l-1.05.85h-.96l-.84-.85v-1.06zm63.33 2.86-2.01-2.86h2.01l1.8 1.91-.84.95zm-2.97-1.8h.95l1.06.85v.95l-1.06 1.17h-.95l-.85-1.17v-.95zm112.48-17.79h1.06l5.51 6.67-.85.84h-.95l-5.61-6.46zm-43.85.85h2.75q24.36 2.54 25.1 8.37h3.82q0-3.81 5.61-6.46h.85l2.75 1.9.95-.95v-.95q3.82.95 3.82 5.61v10.38l.95 4.56q-2.65.0-4.77 6.56l-6.46 7.52-.95-1.06-.95 1.06q-6.99-19.7-24.26-19.7h-7.41q-5.09.0-12.18 9.43l.95 2.75-1.9 1.8q4.02 2.02 7.52 7.52l22.45 4.56-1.06.95v2.86l1.91 1.91h1.9l4.66-.96v1.8l4.56-.84 1.06.84v1.06l8.47-1.9-3.81-4.77.95-.95h.85q12.28 14.51 12.28 21.6v9.22q0 11.86-15.99 22.45l-.95-.84v-.96q3.39-1.8 7.41-12.18l-1.8-6.57h-.95q0 4.88-7.52 10.38l-7.31 14.83h-5.72l-3.71 1.06-10.27-2.75 2.96-4.77q-4.87-6.78-9.53-7.52-7.41 6.04-11.97 13.98l-3.81 1.06q-6.14.0-7.52-8.58l1.06-.84h.95v-1.91h-.95l.95-15.78v-14.09q0-1.69 8.27-4.66.0-2.75 1.9-2.75h.95v.95l-.95.85v.95l.95-.95h1.81v.95l-1.81 2.97v2.75q4.24 8.9 18.65 21.5l4.76-1.06h3.6l4.77 2.76.85-.96h1.06l.84.96h.85q6.46.0 15.89-12.08l-1.8-1.91.95-.84v-1.06q-3.28-11.12-11.23-11.12v-1.91h1.8v-1.8h-1.8l-3.81 2.75-.85-.95v-.95l2.76-2.76-2.76-.95-.84.95h-2.97l-5.4-2.86q0 2.23-4.77 5.62l-15.04-2.76-2.75 2.76h-.95q-12.18-15.04-12.18-18.54l-.75-8.37v-7.52q3.71-5.61 19.49-18.74.0-1.7 4.77-1.91zm20.55 42.9v-1.8h2.75v1.8zm76.47-78.38h1.8v1.06l.85-1.06h1.9q0 2.86 2.76 2.86v2.75l1.06-.84h.84l1.81 1.69v1.06l-.96-1.06h-1.69v1.06l-1.06 24.25 6.46 7.52q5.08-4.02 15.99-4.76l1.91 3.81 2.75-1.8h1.91q2.75.0 4.55 9.22.0 4.76-6.46 8.36l-18.64-2.86h-2.01l-7.31 7.63v45.65q0 6.04 11.12 14.93h4.77q10.38-5.93 10.38-20.55l.85-.84h.84l-.84-.96v-1.06l.84-.84-.84-.85v-1.06l3.6-4.77h2.86l.84 1.06 1.06-1.06h.85q4.66 2.23 4.66 9.54v3.6q0 26.69-22.35 32.73v-.96l-5.51 2.02h-4.76q-23.3-9.01-23.3-19.81-2.33.0-2.86-18.54V168l.95-.95v-.96l.95.96h1.91l-1.91-5.51V146.5q-3.92.0-5.61-5.61h-5.51l-7.62-1.7h-3.6l-2.86 1.7q-3.61-1.49-3.61-6.46v-1.06q5.19-10.17 24.15-10.17l7.42-6.57-.85-4.66q0-23.3 7.52-23.3z"/></svg></h1><span class=badge>Made by a human · Made for a human</span><h2>Rust Illuminated.<br><span>Grasp Quickly.</span></h2></div><div class=hero-content><p>Rust Programming Language Tutorials for Everyone!</p></div><div class=hero-controls><a href=https://learning-rust.github.io/docs class="btn btn-primary">Get Started</a>
 <a href=https://github.com/learning-rust/learning-rust.github.io class="btn btn-outline" target=_blank>Contribute</a></div></section><section class=showcase-section><header class=showcase-header><h2>See the syntax in action</h2><p>Let's explore a few syntaxes of the language.</p></header><div class=showcase-body><div class=accordion-vertical-tabs aria-label="Select feature" open style=--tabs-count:3;--tab-width:20svw;--tab-height:3.5rem><details name=tabs-1 style=--n:1 open><summary data-index="Data and behavior">Data and behavior</summary><div><div class="code-window highlight"><div class=code-header><div class=traffic-lights><div class="light light-red"></div><div class="light light-yellow"></div><div class="light light-green"></div></div><span class=code-title>Structs, Impls and Traits</span><div></div></div><div class=code-body><pre tabindex=0 class=chroma><code class=language-rust data-lang=rust><span class=line><span class=cl><span class=k>struct</span> <span class=nc>Person</span><span class=w> </span><span class=p>{</span><span class=w>
 </span></span></span><span class=line><span class=cl><span class=w>    </span><span class=n>name</span>: <span class=nb>String</span><span class=p>,</span><span class=w>
 </span></span></span><span class=line><span class=cl><span class=w>    </span><span class=n>company_name</span>: <span class=nb>String</span><span class=p>,</span><span class=w>

diff --git a/docs/journal/index.html b/docs/journal/index.html
@@ -12,7 +12,7 @@
 Back to Home
 </button>
 <button class=btn>On this page
-<svg height="20" viewBox="0 -960 960 960" width="20"><path d="M349.5-298.29q10.5-10.29 10.5-25.5t-10.29-25.71-25.5-10.5-25.71 10.29-10.5 25.5 10.29 25.71 25.5 10.5 25.71-10.29zm0-156q10.5-10.29 10.5-25.5t-10.29-25.71-25.5-10.5-25.71 10.29-10.5 25.5 10.29 25.71 25.5 10.5 25.71-10.29zm0-156q10.5-10.29 10.5-25.5t-10.29-25.71-25.5-10.5-25.71 10.29-10.5 25.5 10.29 25.71 25.5 10.5 25.71-10.29zM468-288h168q15.3.0 25.65-10.29Q672-308.58 672-323.79t-10.35-25.71Q651.3-360 636-360H468q-15.3.0-25.65 10.29Q432-339.42 432-324.21t10.35 25.71Q452.7-288 468-288zm0-156h168q15.3.0 25.65-10.29Q672-464.58 672-479.79t-10.35-25.71T636-516H468q-15.3.0-25.65 10.29Q432-495.42 432-480.21t10.35 25.71Q452.7-444 468-444zm0-156h168q15.3.0 25.65-10.29Q672-620.58 672-635.79t-10.35-25.71Q651.3-672 636-672H468q-15.3.0-25.65 10.29Q432-651.42 432-636.21t10.35 25.71Q452.7-6e2 468-6e2zM216-144q-29.7.0-50.85-21.15T144-216v-528q0-29.7 21.15-50.85T216-816h528q29.7.0 50.85 21.15T816-744v528q0 29.7-21.15 50.85T744-144H216zm0-72h528v-528H216v528zm0-528v528-528z"/></svg></button></nav><img src=/journal/cover.jpg srcset="/journal/cover_hu_514cf7b8e5d2edc1.jpg 440w, /journal/cover_hu_360010829fbff92f.jpg 1032w, /journal/cover.jpg 2400w" sizes="(max-width: 440px) 440px, (max-width: 1032px) 1032px, 100vw" id=article-cover alt="Learning Rust - cover image" style=view-transition-name:journalcoverjpg><header id=article-header><h1 style=view-transition-name:journal>Learning Rust</h1><p>The Journey of building Learning Rust!</p></header><div id=article-body><h2 id=2026-august-03>2026: August 03</h2><blockquote><p><img src=/journal/LearningRust2026.jpg alt="Learning Rust2026.jpg"></p><ul><li>Based on my own <a href=https://dumindu.github.io/E25DX/ target=_blank>e25DX</a> theme.</li></ul></blockquote><h2 id=2018-december-07>2018: December 07</h2><blockquote><p><img src=/journal/RustErrorHandling.jpg alt="Rust: Error Handling - Friday, December 7, 2018 at 3:16:22 AM GMT+8"></p><ul><li><a href=https://medium.com/learning-rust/rust-error-handling-72a8e036dd3 target=_blank>Medium</a></li><li><a href=https://www.reddit.com/r/rust/comments/a3r6q1/rust_error_handling_learning_rust_v/ target=_blank>Reddit: r/rust</a></li></ul></blockquote><h2 id=2018-january-01>2018: January 01</h2><blockquote><p><img src=/journal/LearningRust.jpg alt=LearningRust></p><ul><li>Based on the <a href=https://github.com/hexojs/site/tree/master/themes/navy target=_blank>navy theme</a> of <a href=https://hexo.io/ target=_blank>Hexo</a> docs.</li><li><a href=https://web.archive.org/web/20180000000000*/https://learning-rust.github.io/ target=_blank>Internet Archive</a></li><li><a href="https://news.ycombinator.com/item?id=16594547" target=_blank>Hacker News: March 15</a></li><li><a href=https://www.reddit.com/r/rust/comments/984ai3/learning_rust_a_lean_approach/ target=_blank>Reddit: r/rust: August 18</a></li></ul></blockquote><h2 id=2017-december-04>2017: December 04</h2><blockquote><p><img src=/journal/RustLetsGetItStarted.jpg alt="Rust: Lets Get It Started - December 4, 2017 at 7:10:53 AM GMT+8"></p><ul><li><a href=https://medium.com/learning-rust/rust-lets-get-it-started-bdd8de58178d target=_blank>Medium</a></li><li><a href=https://www.reddit.com/r/rust/comments/7hd6o1/rust_lets_get_it_started/ target=_blank>Reddit: r/rust</a></li><li><a href=https://www.reddit.com/r/programming/comments/7hd6cr/rust_lets_get_it_started_learning_rust_iv/ target=_blank>Reddit: r/programming</a></li></ul></blockquote><h2 id=2017-january-01>2017: January 01</h2><blockquote><p><img src=/journal/RustTheToughPart.jpg alt="Rust: The Tough Part- Sunday, January 1, 2017 at 6:11:26 PM GMT+8"></p><ul><li><a href=https://medium.com/learning-rust/rust-the-tough-part-2ea11ed3693e target=_blank>Medium</a></li><li><a href=https://www.reddit.com/r/rust/comments/5lelo2/rust_the_tough_part/ target=_blank>Reddit: r/rust</a></li></ul></blockquote><h2 id=2016-august-01>2016: August 01</h2><blockquote><p><img src=/journal/RustBeyondTheBasics.jpg alt="Rust: Beyond The Basics - Tuesday, August 2, 2016 at 3:26:38 AM GMT+8"></p><ul><li><a href=https://medium.com/learning-rust/rust-beyond-the-basics-4fc697e3bf4f target=_blank>Medium</a></li><li><a href=https://www.reddit.com/r/rust/comments/4voajy/rust_beyond_the_basics/ target=_blank>Reddit: r/rust</a></li></ul></blockquote><h2 id=2016-january-24>2016: January 24</h2><blockquote><p><img src=/journal/RustBasics.jpg alt="Rust Basics - Monday, January 25, 2016 at 8:44:18 AM GMT+8"></p><ul><li><a href=https://medium.com/learning-rust/rust-basics-e73304ab35c7 target=_blank>Medium</a></li><li><a href=https://www.reddit.com/r/programming/comments/42ieeu/rust_basics/ target=_blank>Reddit: r/programming</a>. And luckily Steve Klabnik crossposted it in <a href=https://www.reddit.com/r/rust/comments/42ipwu/rust_basics/ target=_blank>Reddit: r/rust</a>.</li></ul></blockquote></div><footer id=article-footer><time datetime=2026-08-03><span><svg height="20" viewBox="0 -960 960 960" width="20"><path d="M216-96q-29.7.0-50.85-21.5T144-168v-528q0-29 21.15-50.5T216-768h72v-60q0-15.3 10.29-25.65Q308.58-864 323.79-864t25.71 10.35Q360-843.3 360-828v60h240v-60q0-15.3 10.29-25.65Q620.58-864 635.79-864t25.71 10.35Q672-843.3 672-828v60h72q29.7.0 50.85 21.5T816-696v528q0 29-21.15 50.5T744-96H216zm0-72h528v-360H216v360zm0-432h528v-96H216v96zm0 0v-96 96zm264.21 216q-15.21.0-25.71-10.29t-10.5-25.5 10.29-25.71 25.5-10.5 25.71 10.29 10.5 25.5-10.29 25.71-25.5 10.5zM298.5-394.29q-10.5-10.29-10.5-25.5t10.29-25.71 25.5-10.5 25.71 10.29 10.5 25.5-10.29 25.71-25.5 10.5-25.71-10.29zM636.21-384q-15.21.0-25.71-10.29t-10.5-25.5 10.29-25.71 25.5-10.5 25.71 10.29 10.5 25.5-10.29 25.71-25.5 10.5zm-156 144q-15.21.0-25.71-10.29t-10.5-25.5 10.29-25.71 25.5-10.5 25.71 10.29 10.5 25.5-10.29 25.71-25.5 10.5zM298.5-250.29q-10.5-10.29-10.5-25.5t10.29-25.71 25.5-10.5 25.71 10.29 10.5 25.5-10.29 25.71q-10.29 10.5-25.5 10.5t-25.71-10.29zM636.21-240q-15.21.0-25.71-10.29t-10.5-25.5 10.29-25.71 25.5-10.5 25.71 10.29 10.5 25.5-10.29 25.71-25.5 10.5z"/></svg>
+<svg height="20" viewBox="0 -960 960 960" width="20"><path d="M349.5-298.29q10.5-10.29 10.5-25.5t-10.29-25.71-25.5-10.5-25.71 10.29-10.5 25.5 10.29 25.71 25.5 10.5 25.71-10.29zm0-156q10.5-10.29 10.5-25.5t-10.29-25.71-25.5-10.5-25.71 10.29-10.5 25.5 10.29 25.71 25.5 10.5 25.71-10.29zm0-156q10.5-10.29 10.5-25.5t-10.29-25.71-25.5-10.5-25.71 10.29-10.5 25.5 10.29 25.71 25.5 10.5 25.71-10.29zM468-288h168q15.3.0 25.65-10.29Q672-308.58 672-323.79t-10.35-25.71Q651.3-360 636-360H468q-15.3.0-25.65 10.29Q432-339.42 432-324.21t10.35 25.71Q452.7-288 468-288zm0-156h168q15.3.0 25.65-10.29Q672-464.58 672-479.79t-10.35-25.71T636-516H468q-15.3.0-25.65 10.29Q432-495.42 432-480.21t10.35 25.71Q452.7-444 468-444zm0-156h168q15.3.0 25.65-10.29Q672-620.58 672-635.79t-10.35-25.71Q651.3-672 636-672H468q-15.3.0-25.65 10.29Q432-651.42 432-636.21t10.35 25.71Q452.7-6e2 468-6e2zM216-144q-29.7.0-50.85-21.15T144-216v-528q0-29.7 21.15-50.85T216-816h528q29.7.0 50.85 21.15T816-744v528q0 29.7-21.15 50.85T744-144H216zm0-72h528v-528H216v528zm0-528v528-528z"/></svg></button></nav><img src=/journal/cover.jpg srcset="/journal/cover_hu_7568244e0f012217.jpg 440w, /journal/cover_hu_366a9ed8103389e8.jpg 1032w, /journal/cover.jpg 2400w" sizes="(max-width: 440px) 440px, (max-width: 1032px) 1032px, 100vw" id=article-cover alt="Learning Rust - cover image" style=view-transition-name:journalcoverjpg><header id=article-header><h1 style=view-transition-name:journal>Learning Rust</h1><p>This is not just about Rust or learning a new language. It is about how fast you can master it.</p></header><div id=article-body><h2 id=2026-august-03>2026: August 03</h2><blockquote><p><img src=/journal/LearningRust2026.jpg alt="Learning Rust2026.jpg"></p><ul><li>Updated to 2026 section by section.</li><li>Based on my own <a href=https://dumindu.github.io/E25DX/ target=_blank>e25DX</a> theme from 2024.</li></ul></blockquote><hr><h2 id=2018-december-07>2018: December 07</h2><blockquote><p><img src=/journal/RustErrorHandling.jpg alt="Rust: Error Handling - Friday, December 7, 2018 at 3:16:22 AM GMT+8"></p><ul><li><a href=https://medium.com/learning-rust/rust-error-handling-72a8e036dd3 target=_blank>Medium</a></li><li><a href=https://www.reddit.com/r/rust/comments/a3r6q1/rust_error_handling_learning_rust_v/ target=_blank>Reddit: r/rust</a></li></ul></blockquote><hr><h2 id=2018-january-01>2018: January 01</h2><blockquote><p><img src=/journal/LearningRust.jpg alt=LearningRust></p><ul><li>Based on the <a href=https://github.com/hexojs/site/tree/master/themes/navy target=_blank>navy theme</a> of <a href=https://hexo.io/ target=_blank>Hexo</a> docs.</li><li><a href=https://web.archive.org/web/20180000000000*/https://learning-rust.github.io/ target=_blank>Internet Archive</a></li><li><a href="https://news.ycombinator.com/item?id=16594547" target=_blank>Hacker News: March 15</a></li><li><a href=https://www.reddit.com/r/rust/comments/984ai3/learning_rust_a_lean_approach/ target=_blank>Reddit: r/rust: August 18</a></li></ul></blockquote><hr><h2 id=2017-december-04>2017: December 04</h2><blockquote><p><img src=/journal/RustLetsGetItStarted.jpg alt="Rust: Lets Get It Started - December 4, 2017 at 7:10:53 AM GMT+8"></p><ul><li><a href=https://medium.com/learning-rust/rust-lets-get-it-started-bdd8de58178d target=_blank>Medium</a></li><li><a href=https://www.reddit.com/r/rust/comments/7hd6o1/rust_lets_get_it_started/ target=_blank>Reddit: r/rust</a></li><li><a href=https://www.reddit.com/r/programming/comments/7hd6cr/rust_lets_get_it_started_learning_rust_iv/ target=_blank>Reddit: r/programming</a></li></ul></blockquote><hr><h2 id=2017-january-01>2017: January 01</h2><blockquote><p><img src=/journal/RustTheToughPart.jpg alt="Rust: The Tough Part- Sunday, January 1, 2017 at 6:11:26 PM GMT+8"></p><ul><li><a href=https://medium.com/learning-rust/rust-the-tough-part-2ea11ed3693e target=_blank>Medium</a></li><li><a href=https://www.reddit.com/r/rust/comments/5lelo2/rust_the_tough_part/ target=_blank>Reddit: r/rust</a></li></ul></blockquote><hr><h2 id=2016-august-01>2016: August 01</h2><blockquote><p><img src=/journal/RustBeyondTheBasics.jpg alt="Rust: Beyond The Basics - Tuesday, August 2, 2016 at 3:26:38 AM GMT+8"></p><ul><li><a href=https://medium.com/learning-rust/rust-beyond-the-basics-4fc697e3bf4f target=_blank>Medium</a></li><li><a href=https://www.reddit.com/r/rust/comments/4voajy/rust_beyond_the_basics/ target=_blank>Reddit: r/rust</a></li></ul></blockquote><hr><h2 id=2016-january-24>2016: January 24</h2><blockquote><p><img src=/journal/RustBasics.jpg alt="Rust Basics - Monday, January 25, 2016 at 8:44:18 AM GMT+8"></p><ul><li><a href=https://medium.com/learning-rust/rust-basics-e73304ab35c7 target=_blank>Medium</a></li><li><a href=https://www.reddit.com/r/programming/comments/42ieeu/rust_basics/ target=_blank>Reddit: r/programming</a>. And luckily Steve Klabnik crossposted it in <a href=https://www.reddit.com/r/rust/comments/42ipwu/rust_basics/ target=_blank>Reddit: r/rust</a>.</li></ul></blockquote></div><footer id=article-footer><time datetime=2026-08-03><span><svg height="20" viewBox="0 -960 960 960" width="20"><path d="M216-96q-29.7.0-50.85-21.5T144-168v-528q0-29 21.15-50.5T216-768h72v-60q0-15.3 10.29-25.65Q308.58-864 323.79-864t25.71 10.35Q360-843.3 360-828v60h240v-60q0-15.3 10.29-25.65Q620.58-864 635.79-864t25.71 10.35Q672-843.3 672-828v60h72q29.7.0 50.85 21.5T816-696v528q0 29-21.15 50.5T744-96H216zm0-72h528v-360H216v360zm0-432h528v-96H216v96zm0 0v-96 96zm264.21 216q-15.21.0-25.71-10.29t-10.5-25.5 10.29-25.71 25.5-10.5 25.71 10.29 10.5 25.5-10.29 25.71-25.5 10.5zM298.5-394.29q-10.5-10.29-10.5-25.5t10.29-25.71 25.5-10.5 25.71 10.29 10.5 25.5-10.29 25.71-25.5 10.5-25.71-10.29zM636.21-384q-15.21.0-25.71-10.29t-10.5-25.5 10.29-25.71 25.5-10.5 25.71 10.29 10.5 25.5-10.29 25.71-25.5 10.5zm-156 144q-15.21.0-25.71-10.29t-10.5-25.5 10.29-25.71 25.5-10.5 25.71 10.29 10.5 25.5-10.29 25.71-25.5 10.5zM298.5-250.29q-10.5-10.29-10.5-25.5t10.29-25.71 25.5-10.5 25.71 10.29 10.5 25.5-10.29 25.71q-10.29 10.5-25.5 10.5t-25.71-10.29zM636.21-240q-15.21.0-25.71-10.29t-10.5-25.5 10.29-25.71 25.5-10.5 25.71 10.29 10.5 25.5-10.29 25.71-25.5 10.5z"/></svg>
 </span>Updated: 2026-08-03</time></footer></article><aside id=right-sidebar><div><button class=btn>
 <svg height="20" viewBox="0 -960 960 960" width="20"><path d="M480-429 316-265q-11 11-25 10.5T266-266t-11-25.5 11-25.5l163-163-164-164q-11-11-10.5-25.5T266-695t25.5-11 25.5 11l163 164 164-164q11-11 25.5-11t25.5 11 11 25.5T695-644L531-480l164 164q11 11 11 25t-11 25-25.5 11T644-266L480-429z"/></svg>
 Close</button></div><header><h3>On this page</h3></header><nav id=TableOfContents><ul><li><a href=#2026-august-03>2026: August 03</a></li><li><a href=#2018-december-07>2018: December 07</a></li><li><a href=#2018-january-01>2018: January 01</a></li><li><a href=#2017-december-04>2017: December 04</a></li><li><a href=#2017-january-01>2017: January 01</a></li><li><a href=#2016-august-01>2016: August 01</a></li><li><a href=#2016-january-24>2016: January 24</a></li></ul></nav><footer><a id=back-to-top href=#>Back to top</a></footer></aside></main><footer id=site-footer><svg height="20" viewBox="0 -960 960 960" width="20"><path d="M480-576q-47 0-71.5 15T384-528v126q0 8 5 13t13 5h30v96q0 20.16 13.89 34.08 13.88 13.92 34 13.92Q5e2-240 514-253.92T528-288v-96h30q8 0 13-5t5-13v-126q0-18-24.5-33T480-576zM331.07-126.22q-70.22-30.22-122.65-82.5Q156-261 126-331.18q-30-70.19-30-149.5.0-79.32 30.21-148.85 30.21-69.52 82.49-121.79 52.27-52.26 122.28-82.47Q401-864 480.35-864t149.08 30.22 122.15 82.5T834-629.31q30 69.7 30 149 0 79.31-30.21 149.33-30.21 70.01-82.47 122.28-52.27 52.28-121.79 82.49Q560-96 480.64-96q-79.35.0-149.57-30.22zM701-259.23q91-91.23 91-221T700.77-701t-221-91T259-700.77t-91 221T259.23-259t221 91T701-259.23zM514-638q14-14 14-34t-14-34-34-14-34 14-14 34 14 34 34 14 34-14zm-34 158z"/></svg>

diff --git a/content/en/page/journal/index.md b/content/en/page/journal/index.md
@@ -3,19 +3,24 @@ title: Learning Rust
 url: "journal"
 
 summary: >
-  The Journey of building Learning Rust!
+  This is not just about Rust or learning a new language. It is about how fast you can master it.
 ---
 
 ## 2026: August 03
 
 > ![Learning Rust2026.jpg](LearningRust2026.jpg)
-> - Based on my own [e25DX](https://dumindu.github.io/E25DX/) theme.
+> - Updated to 2026 section by section.
+> - Based on my own [e25DX](https://dumindu.github.io/E25DX/) theme from 2024.
+
+---
 
 ## 2018: December 07
 
 > ![Rust: Error Handling - Friday, December 7, 2018 at 3:16:22 AM GMT+8](RustErrorHandling.jpg)
 > - [Medium](https://medium.com/learning-rust/rust-error-handling-72a8e036dd3)
 > - [Reddit: r/rust](https://www.reddit.com/r/rust/comments/a3r6q1/rust_error_handling_learning_rust_v/)
+
+---
 
 ## 2018: January 01
 
@@ -25,11 +30,15 @@ summary: >
 > - [Hacker News: March 15](https://news.ycombinator.com/item?id=16594547)
 > - [Reddit: r/rust: August 18](https://www.reddit.com/r/rust/comments/984ai3/learning_rust_a_lean_approach/)
 
+---
+
 ## 2017: December 04
 > ![Rust: Lets Get It Started - December 4, 2017 at 7:10:53 AM GMT+8](RustLetsGetItStarted.jpg)
 > - [Medium](https://medium.com/learning-rust/rust-lets-get-it-started-bdd8de58178d)
 > - [Reddit: r/rust](https://www.reddit.com/r/rust/comments/7hd6o1/rust_lets_get_it_started/)
 > - [Reddit: r/programming](https://www.reddit.com/r/programming/comments/7hd6cr/rust_lets_get_it_started_learning_rust_iv/)
+
+---
 
 ## 2017: January 01
 
@@ -37,11 +46,15 @@ summary: >
 > - [Medium](https://medium.com/learning-rust/rust-the-tough-part-2ea11ed3693e)
 > - [Reddit: r/rust](https://www.reddit.com/r/rust/comments/5lelo2/rust_the_tough_part/)
 
+---
+
 ## 2016: August 01
 
 > ![Rust: Beyond The Basics - Tuesday, August 2, 2016 at 3:26:38 AM GMT+8](RustBeyondTheBasics.jpg)
 > - [Medium](https://medium.com/learning-rust/rust-beyond-the-basics-4fc697e3bf4f)
 > - [Reddit: r/rust](https://www.reddit.com/r/rust/comments/4voajy/rust_beyond_the_basics/)
+
+---
 
 ## 2016: January 24
 
